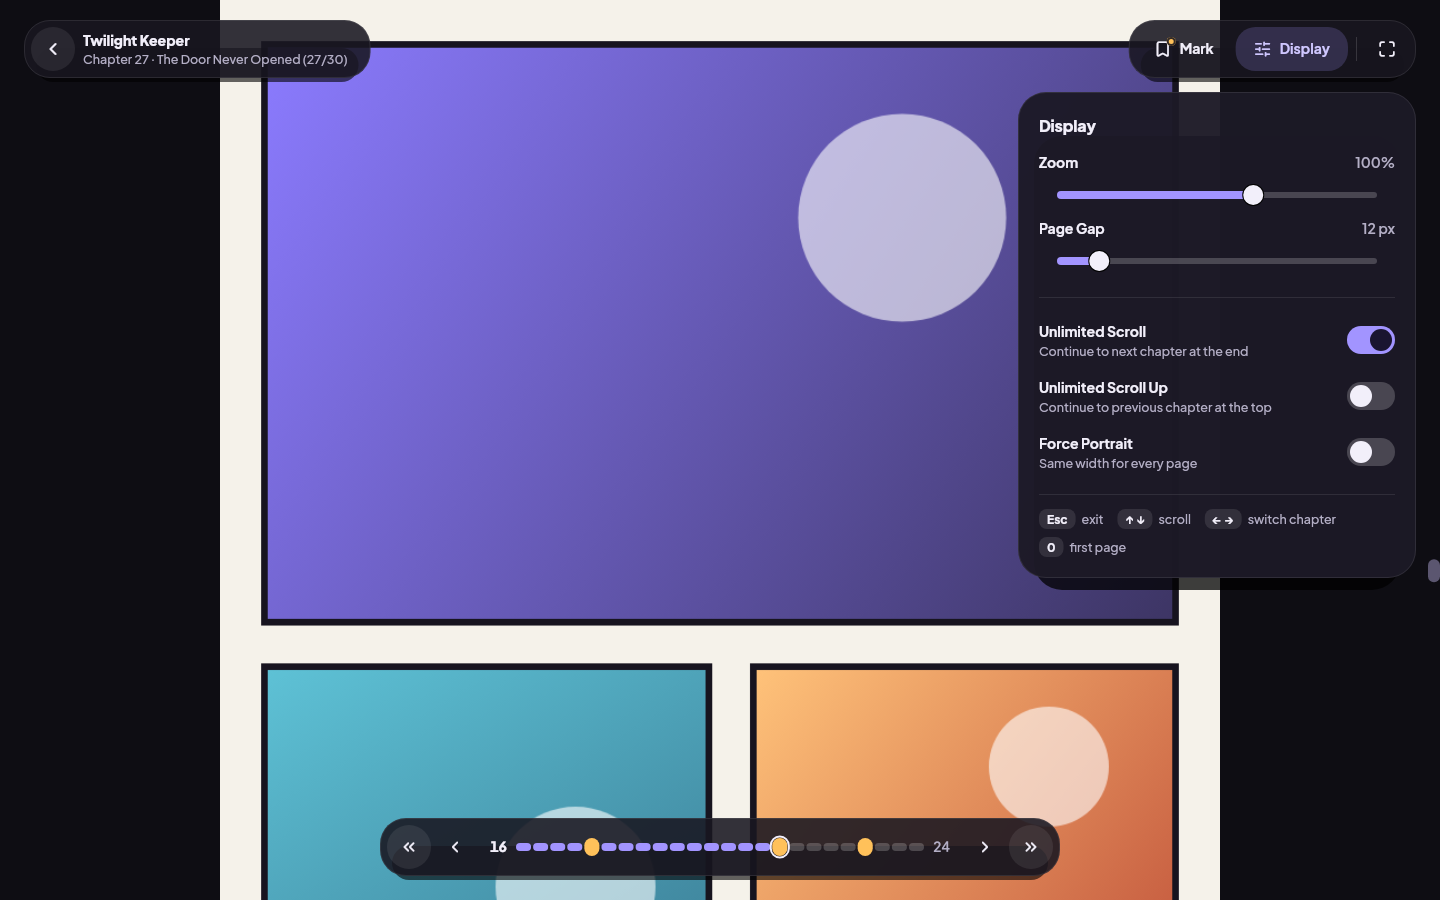
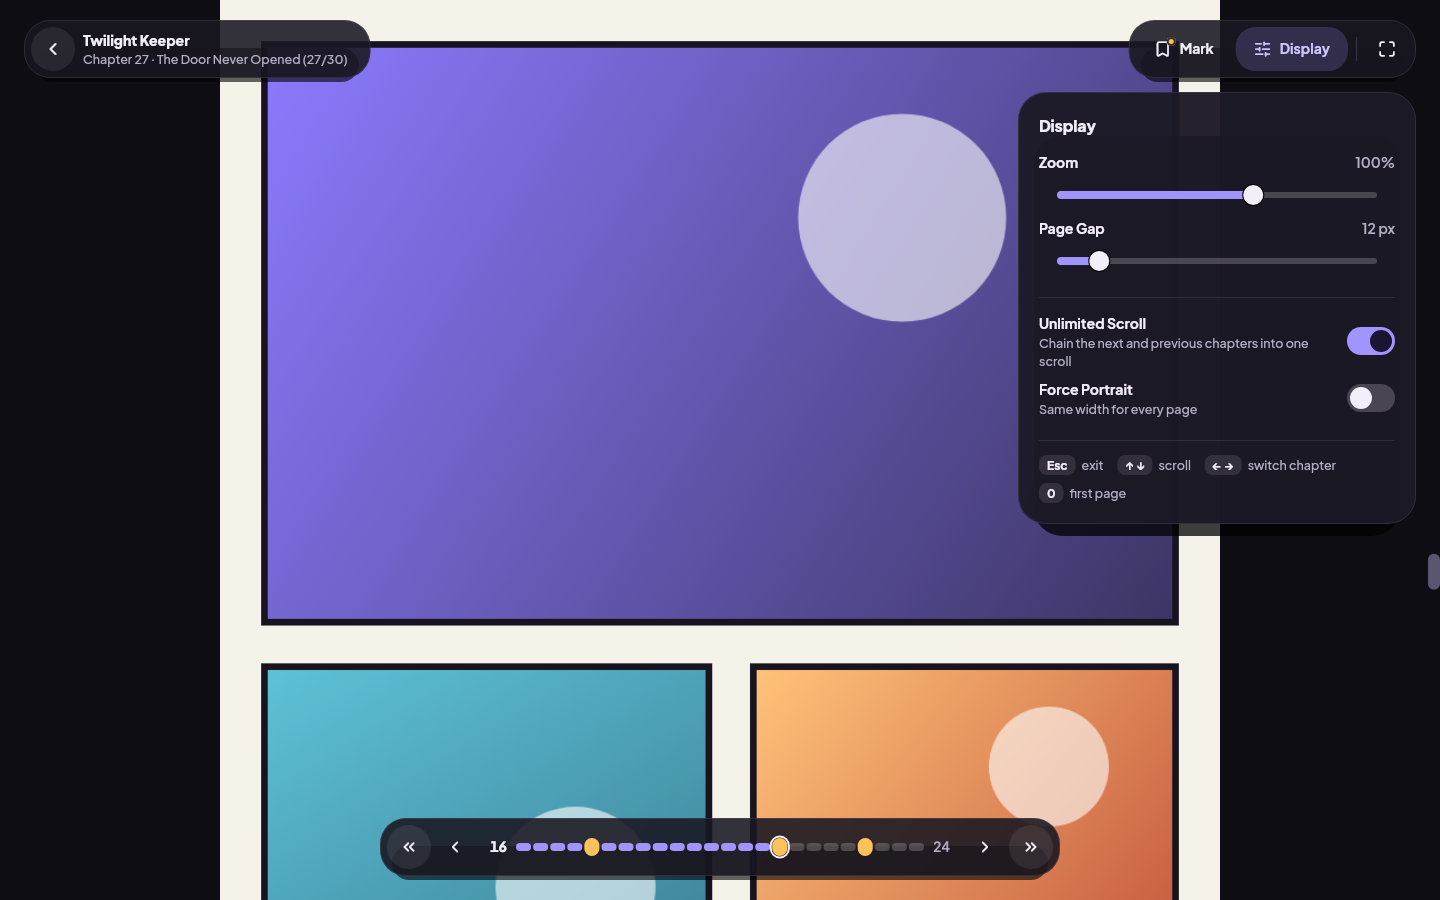
docs: refresh the README screenshots
Regenerated from the screenshot test so they match the current UI: the
split sort control and the single "Unlimited Scroll" switch (the removed
"scroll up" row is gone), and the new comic-page chapter toolbar.

The harness now loads a real monospace font (falling back to the bundled
one) so the path chip no longer renders as solid blocks, and opens the
comic from the Library tab so the sidebar highlights the right entry. It
also writes a shot of the chapter separator (17-reader-chapter-break).

Changed region(s): [[0.6875, 0.3422, 0.9688, 0.6533], [0.875, 0.4044, 0.9688, 0.5289]]

diff --git a/app_flutter/test/screenshots_test.dart b/app_flutter/test/screenshots_test.dart
@@ -31,6 +31,15 @@ final _shotKey = GlobalKey();
 const _root = '/home/andrizan/Comics';
 const _featured = '$_root/Twilight Keeper';
 
+const _monospaceFontCandidates = [
+  '/usr/share/fonts/noto/NotoSansMono-Regular.ttf',
+  '/usr/share/fonts/TTF/DejaVuSansMono.ttf',
+  '/usr/share/fonts/dejavu/DejaVuSansMono.ttf',
+  '/usr/share/fonts/truetype/dejavu/DejaVuSansMono.ttf',
+  '/System/Library/Fonts/Menlo.ttc',
+  'C:\\Windows\\Fonts\\consola.ttf',
+];
+
 void main() {
   TestWidgetsFlutterBinding.ensureInitialized();
 
@@ -60,6 +69,21 @@ void main() {
     final lucide = FontLoader('packages/forui_lucide/ForuiLucideIcons');
     lucide.addFont(rootBundle.load('packages/forui_lucide/assets/lucide.ttf'));
     await lucide.load();
+    // The app asks the OS for a monospace font (the path chip on the comic
+    // page). The test environment has none, so every glyph would render as a
+    // solid block; borrow a real one from the machine when there is one and
+    // fall back to the bundled font so the text stays readable.
+    final mono = FontLoader('monospace');
+    final monoFile = _monospaceFontCandidates
+        .map(File.new)
+        .where((file) => file.existsSync())
+        .firstOrNull;
+    mono.addFont(
+      monoFile != null
+          ? Future.value(ByteData.sublistView(monoFile.readAsBytesSync()))
+          : rootBundle.load('assets/fonts/PlusJakartaSans-Medium.ttf'),
+    );
+    await mono.load();
     Directory(_outDir).createSync(recursive: true);
   });
 
@@ -78,6 +102,10 @@ void main() {
     await tester.tap(find.text('Favorites'));
     await _shoot(tester, '04-favorites');
 
+    // A title is opened from the Library tab, so the sidebar should say so.
+    await tester.tap(find.text('Library'));
+    // The shell's window-drag detector delays taps by the double-tap timeout.
+    await tester.pump(const Duration(milliseconds: 400));
     _go(tester, '/comic/${encodeRoutePath(_featured)}');
     await _shoot(tester, '05-comic');
 
